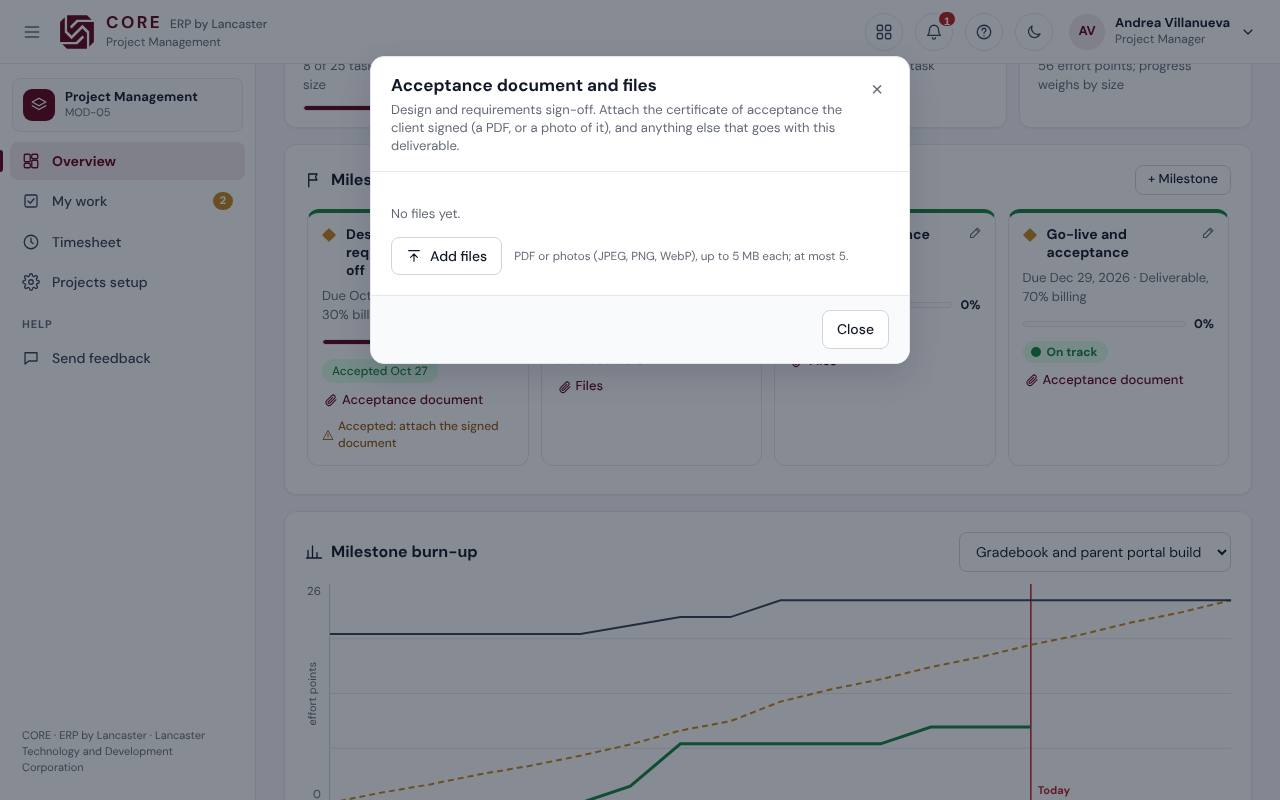
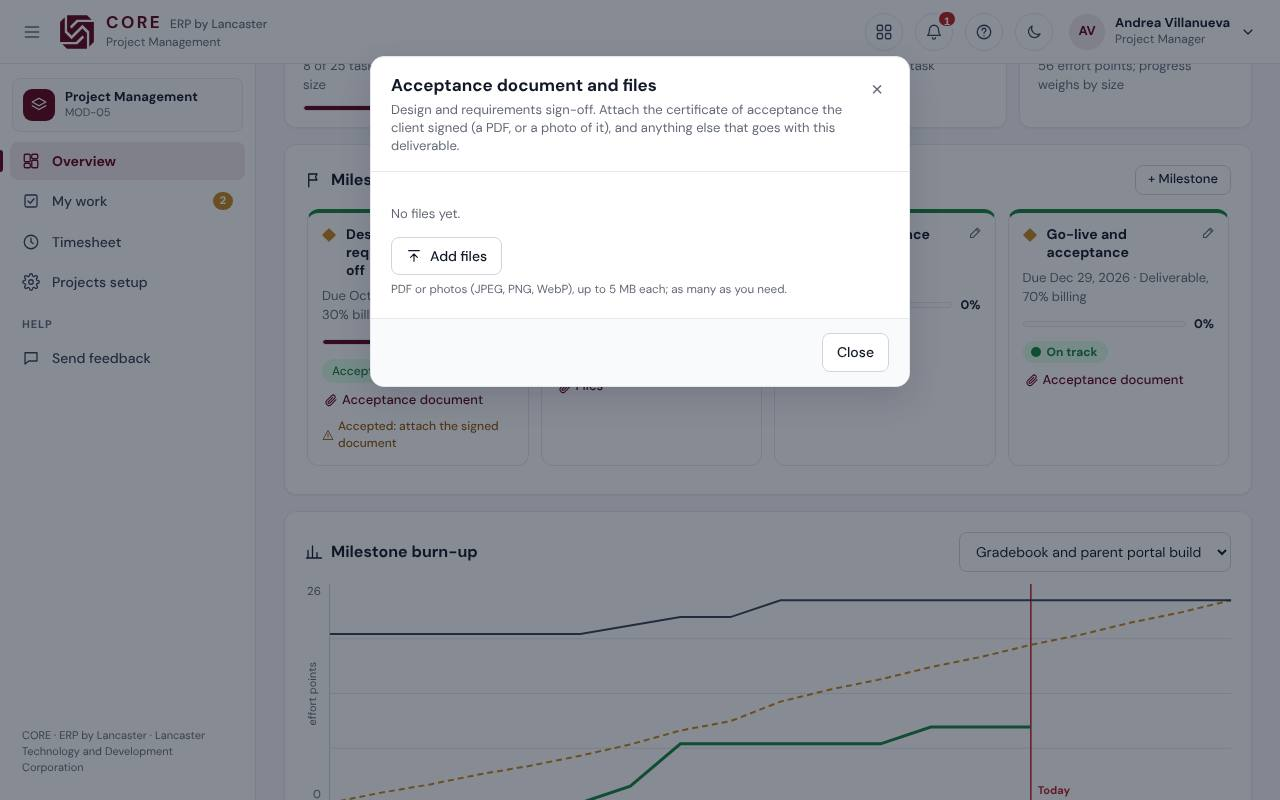
Projects: no limit on files in tasks (0.25.1-alpha)
The limits of 5 files per task or milestone and 20 pictures per task description are removed, on the server and on screen. The file box no longer counts "n of 5", and Add files uploads everything picked, one file at a time.

Each file is still checked by its content (PDF, JPEG, PNG, WebP) and limited to 5 MB.

Tests now upload more than the old limits. Also updates the guide, What's new, the devlog and screenshots.

Claude-Session: https://claude.ai/code/session_01JQ4oxiUA7CnD1ir2UC84uB

Changed region(s): [[0.2812, 0.4062, 0.7188, 0.5], [0.3125, 0.3125, 0.6562, 0.375]]

diff --git a/public/js/views/projects.js b/public/js/views/projects.js
@@ -219,23 +219,20 @@ function popMenu(btn, items, label) {
 // ---------- Files (tasks and milestones) ----------
 // A file opens as a download (the server sends it as an attachment to save), never in the page.
 // base: the files' address, e.g. /api/pm/tasks/<id>/attachments.
-const MAX_FILES = 5;
 function fileBlock(list, base, canAdd) {
   return html`${list.length ? html`<ul class="pm-files">${list.map((a) => html`<li>
       <span class="pm-file-ic" aria-hidden="true">${icon(a.type === 'application/pdf' ? 'file' : 'image', 16)}</span>
       <span class="grow"><a href="${base}/${a.id}" download="${a.name}">${a.name}</a><small>${sizeLabel(a.size)} · ${a.byName} · ${when(a.uploadedAt)}</small></span>
       ${a.canDelete ? html`<button type="button" class="icon-btn danger" data-del-file="${a.id}" aria-label="Remove ${a.name}">${icon('trash', 16)}</button>` : ''}</li>`)}</ul>`
     : html`<p class="muted small">No files yet.</p>`}
-    ${canAdd ? (list.length < MAX_FILES ? html`<div class="pm-file-add"><label class="btn">${icon('upload', 16)} Add files<input type="file" class="sr-only" accept="${ACCEPT}" multiple data-add-file /></label>
-        <small class="muted">PDF or photos (JPEG, PNG, WebP), up to 5 MB each; at most ${MAX_FILES}.</small></div>`
-      : html`<p class="muted small">${MAX_FILES} files, the most there can be. Remove one to add another.</p>`) : ''}`;
+    ${canAdd ? html`<div class="pm-file-add"><label class="btn">${icon('upload', 16)} Add files<input type="file" class="sr-only" accept="${ACCEPT}" multiple data-add-file /></label>
+        <small class="muted">PDF or photos (JPEG, PNG, WebP), up to 5 MB each; as many as you need.</small></div>` : ''}`;
 }
-// Uploads what was picked (up to the room left) and removes on request; done(list) gets the new list.
+// Uploads everything picked, one file at a time, and removes on request; done(list) gets the new list.
 function wireFiles(root, base, list, done) {
   root.querySelector('[data-add-file]')?.addEventListener('change', guard(async (e) => {
     const input = e.target;
-    const picked = [...input.files].slice(0, MAX_FILES - list.length);
-    if (input.files.length > picked.length) toast(`Only ${picked.length} more file${picked.length === 1 ? '' : 's'} can be added here.`, 'error');
+    const picked = [...input.files];
     input.disabled = true;
     let out = null;
     try {
@@ -1660,7 +1657,7 @@ export async function taskView(el, { projectId, id }) {
           ${t.parentId ? '' : html`<section class="card"><div class="card-head"><h2>${icon('layers')} Subtasks</h2><span class="muted small">${t.subtaskList.length ? `${t.subtaskList.filter((s) => s.category === 'done').length}/${t.subtaskList.length} done` : ''}</span></div>
             ${t.subtaskList.length ? html`<ul class="crm-mini">${t.subtaskList.map((s) => html`<li><span class="grow"><a href="#/projects/${p.id}/tasks/${s.id}"><strong>${s.title}</strong></a><small><span class="mono">${s.key}</span> · ${s.statusName}${s.assigneeName ? ` · ${s.assigneeName}` : ''}</small></span>${dueChip(s)}</li>`)}</ul>` : html`<p class="muted small">No subtasks. A subtask counts for progress instead of this task.</p>`}
             ${work ? html`<form id="add-sub" class="crm-add-item"><input name="title" maxlength="200" placeholder="Add a subtask…" aria-label="Subtask title" /><button class="btn" type="submit">Add</button></form>` : ''}</section>`}
-          <section class="card" id="files-card"><div class="card-head"><h2>${icon('paperclip')} Files</h2><span class="muted small">${t.attachments.length ? `${t.attachments.length} of ${t.maxFiles}` : ''}</span></div>
+          <section class="card" id="files-card"><div class="card-head"><h2>${icon('paperclip')} Files</h2><span class="muted small">${t.attachments.length ? plural(t.attachments.length, 'file') : ''}</span></div>
             <div id="files">${fileBlock(t.attachments, `/api/pm/tasks/${t.id}/attachments`, work)}</div></section>
           <section class="card"><h2>${icon('comment')} Comments</h2>
             ${comments.length ? html`<ul class="pm-comments">${comments.map(comment)}</ul>` : html`<p class="muted small">No comments yet.</p>`}

diff --git a/server/projects.js b/server/projects.js
@@ -234,8 +234,6 @@ const MAX_HISTORY = 200;
 // The files of tasks and milestones of a project (to remove with it).
 export const projectFiles = (data, projectId) => [...(data.pmTasks || []), ...(data.pmMilestones || [])].filter((x) => x.projectId === projectId).flatMap((x) => [...(x.attachments || []), ...(x.images || [])]);
 
-const MAX_FILES = 5; // per task or milestone
-const MAX_IMAGES = 20; // pictures in a task's description
 const IMAGE_GRACE_MS = 2 * 3600 * 1000; // a picture not (yet) in the description is kept this long: someone may be writing
 const BULK_MAX = 200; // tasks per bulk change
 const BULK_FIELDS = ['statusId', 'assigneeId', 'milestoneId', 'priority', 'size'];
@@ -421,14 +419,13 @@ export function registerProjectRoutes(route, db, { audit, files, mailer, sendMai
   const watcherList = (t) => watchersOf(t).map((id) => ({ userId: id, name: userName(id) || 'Former user' })).sort((a, b) => a.name.localeCompare(b.name));
 
   // ----- Files on tasks and milestones (server/attachments.js) -----
-  // Up to 5 each; anyone who works on the project adds them, the uploader or a manager removes
+  // As many as needed (each up to the size limit); anyone who works on the project adds them, the uploader or a manager removes
   // them, and anyone who can open the project downloads them: as a file to save, never shown in
   // the page (Content-Disposition: attachment, its own sandboxing policy).
   const filesOf = (rec) => (Array.isArray(rec.attachments) ? rec.attachments : (rec.attachments = []));
   const fileOut = (a, p, u) => ({ id: a.id, name: a.name, type: a.type, size: a.size, uploadedAt: a.uploadedAt, by: a.by || null, byName: byName(a.by), canDelete: (a.by === u.id && LEVEL[levelOf(p, u)] >= LEVEL.work) || levelOf(p, u) === 'manage' });
   function addFile(rec, body) {
     if (!files) throw new HttpError(500, 'Files cannot be stored here.');
-    if (filesOf(rec).length >= MAX_FILES) throw new HttpError(400, `There are already ${MAX_FILES} files here, the most there can be. Remove one first.`);
     return { ...files.save(parseUpload(body?.file)) };
   }
   function findFile(rec, fileId) {
@@ -1027,8 +1024,8 @@ export function registerProjectRoutes(route, db, { audit, files, mailer, sendMai
       others: ctx.tasks.filter((x) => x.id !== t.id).sort(byRank).map((x) => ({ id: x.id, key: x.key, title: x.title, parentId: x.parentId })),
       milestones: milestonesOf(p).map((m) => ({ id: m.id, name: m.name, dueDate: m.dueDate })),
       ...(ctx.time ? { time: logs.map((x) => ({ ...x, userName: userName(x.userId) })), loggedHours: Math.round(logs.reduce((n, x) => n + x.hours, 0) * 100) / 100 } : { time: null }),
-      watching: watchersOf(t).includes(u.id), watcherList: watcherList(t), attachments: filesOf(t).map((a) => fileOut(a, p, u)), maxFiles: MAX_FILES,
-      images: imagesOf(t).map(imageOut), maxImages: MAX_IMAGES,
+      watching: watchersOf(t).includes(u.id), watcherList: watcherList(t), attachments: filesOf(t).map((a) => fileOut(a, p, u)),
+      images: imagesOf(t).map(imageOut),
     };
   });
   route('PUT', '/api/pm/tasks/:id', 'auth', ({ params, body, user: u }) => {
@@ -1196,7 +1193,6 @@ export function registerProjectRoutes(route, db, { audit, files, mailer, sendMai
     const { t } = findTask(params.id, u, 'work');
     if (!files) throw new HttpError(500, 'Files cannot be stored here.');
     pruneImages(t);
-    if (imagesOf(t).length >= MAX_IMAGES) throw new HttpError(400, `This task has ${MAX_IMAGES} pictures, the most it can have. Remove one from the description and save it first.`);
     const up = parseUpload(body?.file);
     if (!IMAGE_TYPES.includes(up.type)) throw new HttpError(400, 'Insert a picture: JPEG, PNG or WebP.');
     const x = { ...files.save(up), by: u.id };

diff --git a/test/projects-jira2.test.js b/test/projects-jira2.test.js
@@ -390,9 +390,9 @@ test('files on a task: PDF and images only (by content), 5 at most, downloaded a
   const full = await pia('GET', `/api/pm/tasks/${t.id}`);
   assert.ok(full.history.some((h) => h.field === 'file added' && h.to === 'Acceptance certificate.pdf'));
   assert.ok((await pia('GET', `/api/pm/projects/${p.id}`)).activity.some((x) => x.field === 'file added'));
-  // At most 5.
-  for (let i = 0; i < 4; i++) await juan('POST', `/api/pm/tasks/${t.id}/attachments`, { file: pdf(String(i)) });
-  await fails(juan('POST', `/api/pm/tasks/${t.id}/attachments`, { file: pdf() }), 400, /5 files/);
+  // No limit on how many: more than five go on.
+  for (let i = 0; i < 6; i++) await juan('POST', `/api/pm/tasks/${t.id}/attachments`, { file: pdf(String(i)) });
+  assert.equal((await juan('GET', `/api/pm/tasks/${t.id}`)).attachments.length, 7);
   // Removing: the uploader or a manager; another member cannot.
   await fails(ana('DELETE', `/api/pm/tasks/${t.id}/attachments/${a.id}`), 403);
   const file = path.join(dir, 'attachments', a.id);

diff --git a/test/projects-richtext.test.js b/test/projects-richtext.test.js
@@ -203,10 +203,10 @@ test('a picture the description stops using is removed on save (after a grace pe
   assert.ok(!fs.existsSync(path.join(dir, 'attachments', a.id)));
 });
 
-test('at most 20 pictures a task', async () => {
+test('no limit on how many pictures a task has', async () => {
   const t = await pia('POST', `/api/pm/projects/${p.id}/tasks`, { title: 'Photo survey' });
-  for (let i = 0; i < 20; i++) await pia('POST', `/api/pm/tasks/${t.id}/images`, { file: png(`${i}.png`) });
-  await fails(pia('POST', `/api/pm/tasks/${t.id}/images`, { file: png() }), 400, /20 pictures/);
+  for (let i = 0; i < 25; i++) await pia('POST', `/api/pm/tasks/${t.id}/images`, { file: png(`${i}.png`) });
+  assert.equal((await pia('GET', `/api/pm/tasks/${t.id}`)).images.length, 25);
 });
 
 test('copying a project copies the pictures its descriptions use, under new ids', async () => {

diff --git a/shared/devlog.js b/shared/devlog.js
@@ -28,6 +28,16 @@ export const CHANGE_TYPES = { new: 'Added', improved: 'Changed', fixed: 'Fixed' 
 
 export const DEVLOG = [
   {
+    version: '0.25.1-alpha',
+    date: '2026-11-14',
+    title: 'No limit on files in tasks',
+    modules: ['projects'],
+    notes: 'Tasks and milestones take as many files, and descriptions as many pictures, as needed.',
+    changes: [
+      ['improved', 'projects', 'The limits of 5 files per task or milestone and 20 pictures per task description are removed (server and screen); Add files uploads everything picked, one file at a time. Each file is still checked by content (PDF, JPEG, PNG, WebP) and limited to 5 MB.'],
+    ],
+  },
+  {
     version: '0.25.0-alpha',
     date: '2026-11-14',
     title: 'Projects are for their members',

diff --git a/docs/guides/projects.md b/docs/guides/projects.md
@@ -231,7 +231,7 @@ Progress counts the subtasks, not their parent. When most tasks (60% or more) ha
 
 ![Editing a task's description](projects-description.jpg)
 
-The toolbar writes simple marks into the text (`**bold**`, `- item`, `- [ ] to do`, `![caption](img:…)` for a picture), so you can also type them. A table is a line of `| Column | Column |`, then `|---|---|`, then a line per row. The checklist in a description is for reading; tick tasks off in the task's own **Checklist**. Pictures can be JPEG, PNG or WebP, up to 5 MB (a large photo is made smaller before it is sent), and 20 per task; the words in brackets are the caption. Everyone who can open the project sees them; click one to open it full size. A picture you take out of the description is deleted when the description is saved. Pictures are added once the task exists: in **New task** the description can be formatted, and pictures come after **Add task**. Links open web pages (`https://…`) or an email (`mailto:…`) in a new tab.
+The toolbar writes simple marks into the text (`**bold**`, `- item`, `- [ ] to do`, `![caption](img:…)` for a picture), so you can also type them. A table is a line of `| Column | Column |`, then `|---|---|`, then a line per row. The checklist in a description is for reading; tick tasks off in the task's own **Checklist**. Pictures can be JPEG, PNG or WebP, up to 5 MB (a large photo is made smaller before it is sent), as many as you need; the words in brackets are the caption. Everyone who can open the project sees them; click one to open it full size. A picture you take out of the description is deleted when the description is saved. Pictures are added once the task exists: in **New task** the description can be formatted, and pictures come after **Add task**. Links open web pages (`https://…`) or an email (`mailto:…`) in a new tab.
 
 ### Size a task
 
@@ -326,7 +326,7 @@ Watchers hear, under **For you**, of every comment on the task and of it being m
 
 ### Attach files to a task or a deliverable
 
-1. On a task, under **Files**, click **Add files** and pick PDFs or photos (JPEG, PNG or WebP; up to 5 MB each, at most 5 per task). Large photos are made smaller first.
+1. On a task, under **Files**, click **Add files** and pick PDFs or photos (JPEG, PNG or WebP; up to 5 MB each, as many as you need). Large photos are made smaller first.
 2. For a milestone, click **Files** on its card on the project's **Overview** (on a deliverable, **Acceptance document**) and add files the same way.
 3. Click a file's name to download it. The bin removes it.
 
@@ -519,7 +519,7 @@ Amounts come from contract and deal values in Sales & CRM, so only people with S
 No. Like medical certificates and ticket files, they are kept in the `data` folder next to the database, not in the backup file. An administrator copies that folder to keep them.
 
 **Which files can I attach?**
-PDFs and photos (JPEG, PNG, WebP), up to 5 MB each and 5 per task or milestone. CORE checks what the file really is, not just its name. Files are always downloaded, never opened inside CORE.
+PDFs and photos (JPEG, PNG, WebP), up to 5 MB each, with no limit on how many a task or milestone has. CORE checks what the file really is, not just its name. Files are always downloaded, never opened inside CORE.
 
 **How exact is the burn-up?**
 It is worked out from what each task remembers: when it was added, its status changes and when it was done. A deleted task is not remembered, so it is not in the chart at all; and a task moved from another milestone counts in its current one from the day it was added.

diff --git a/docs/guides/whats-new.md b/docs/guides/whats-new.md
@@ -9,6 +9,9 @@ order: 2
 
 ## November 2026
 
+### No limit on files in tasks (0.25.1)
+- A task (and a milestone) can have as many files as you need, and a task's description as many pictures: the limits of 5 files and 20 pictures are gone. Each file is still up to 5 MB, PDF or photo. See [the projects guide](projects#attach-files-to-a-task-or-a-deliverable).
+
 ### Projects are for their members (0.25)
 - Every project is now seen only by the people on its member list, and by administrators. Project Managers and Sales Managers see the projects they are on, not all of them. Add people under **Members** in the project form, or with **Members** at the top of a project. The **Private project** switch is gone: every project works that way. See [the projects guide](projects#choose-who-sees-a-project).
 
